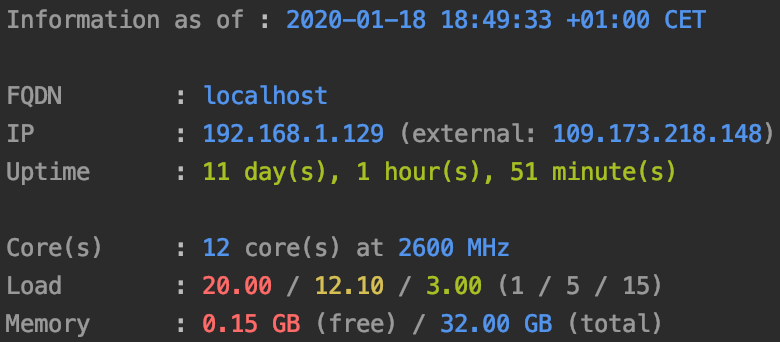
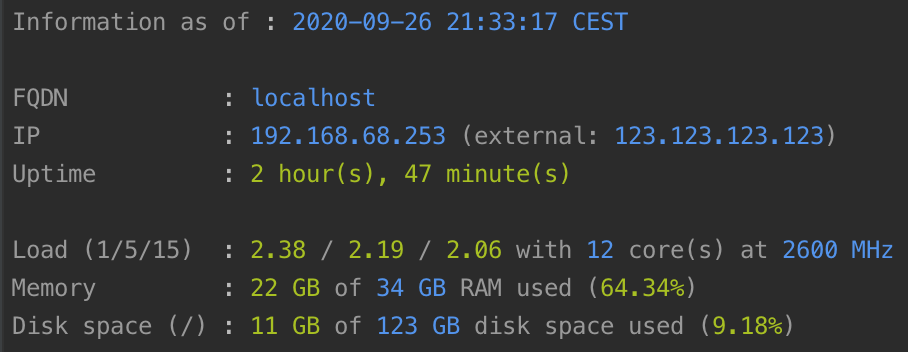
Update the screenshot

diff --git a/plugins/ip.go b/plugins/ip.go
@@ -54,18 +54,24 @@ func getLocalIP() string {
 	return localAddr.IP.String()
 }
 
+var showFakeIP = true
+
 func getExternalIP() string {
-	client := http.Client{
-		Timeout: 3 * time.Second,
+	if showFakeIP {
+		return "123.123.123.123"
+	} else {
+		client := http.Client{
+			Timeout: 3 * time.Second,
+		}
+		resp, err := client.Get("https://icanhazip.com")
+		if err != nil {
+			return "can't get / too slow internet connection!"
+		}
+		defer resp.Body.Close()
+		body, err := ioutil.ReadAll(resp.Body)
+		if err != nil {
+			return "can't get - check internet connection!"
+		}
+		return strings.TrimSpace(string(body))
 	}
-	resp, err := client.Get("https://icanhazip.com")
-	if err != nil {
-		return "can't get / too slow internet connection!"
-	}
-	defer resp.Body.Close()
-	body, err := ioutil.ReadAll(resp.Body)
-	if err != nil {
-		return "can't get - check internet connection!"
-	}
-	return strings.TrimSpace(string(body))
 }
